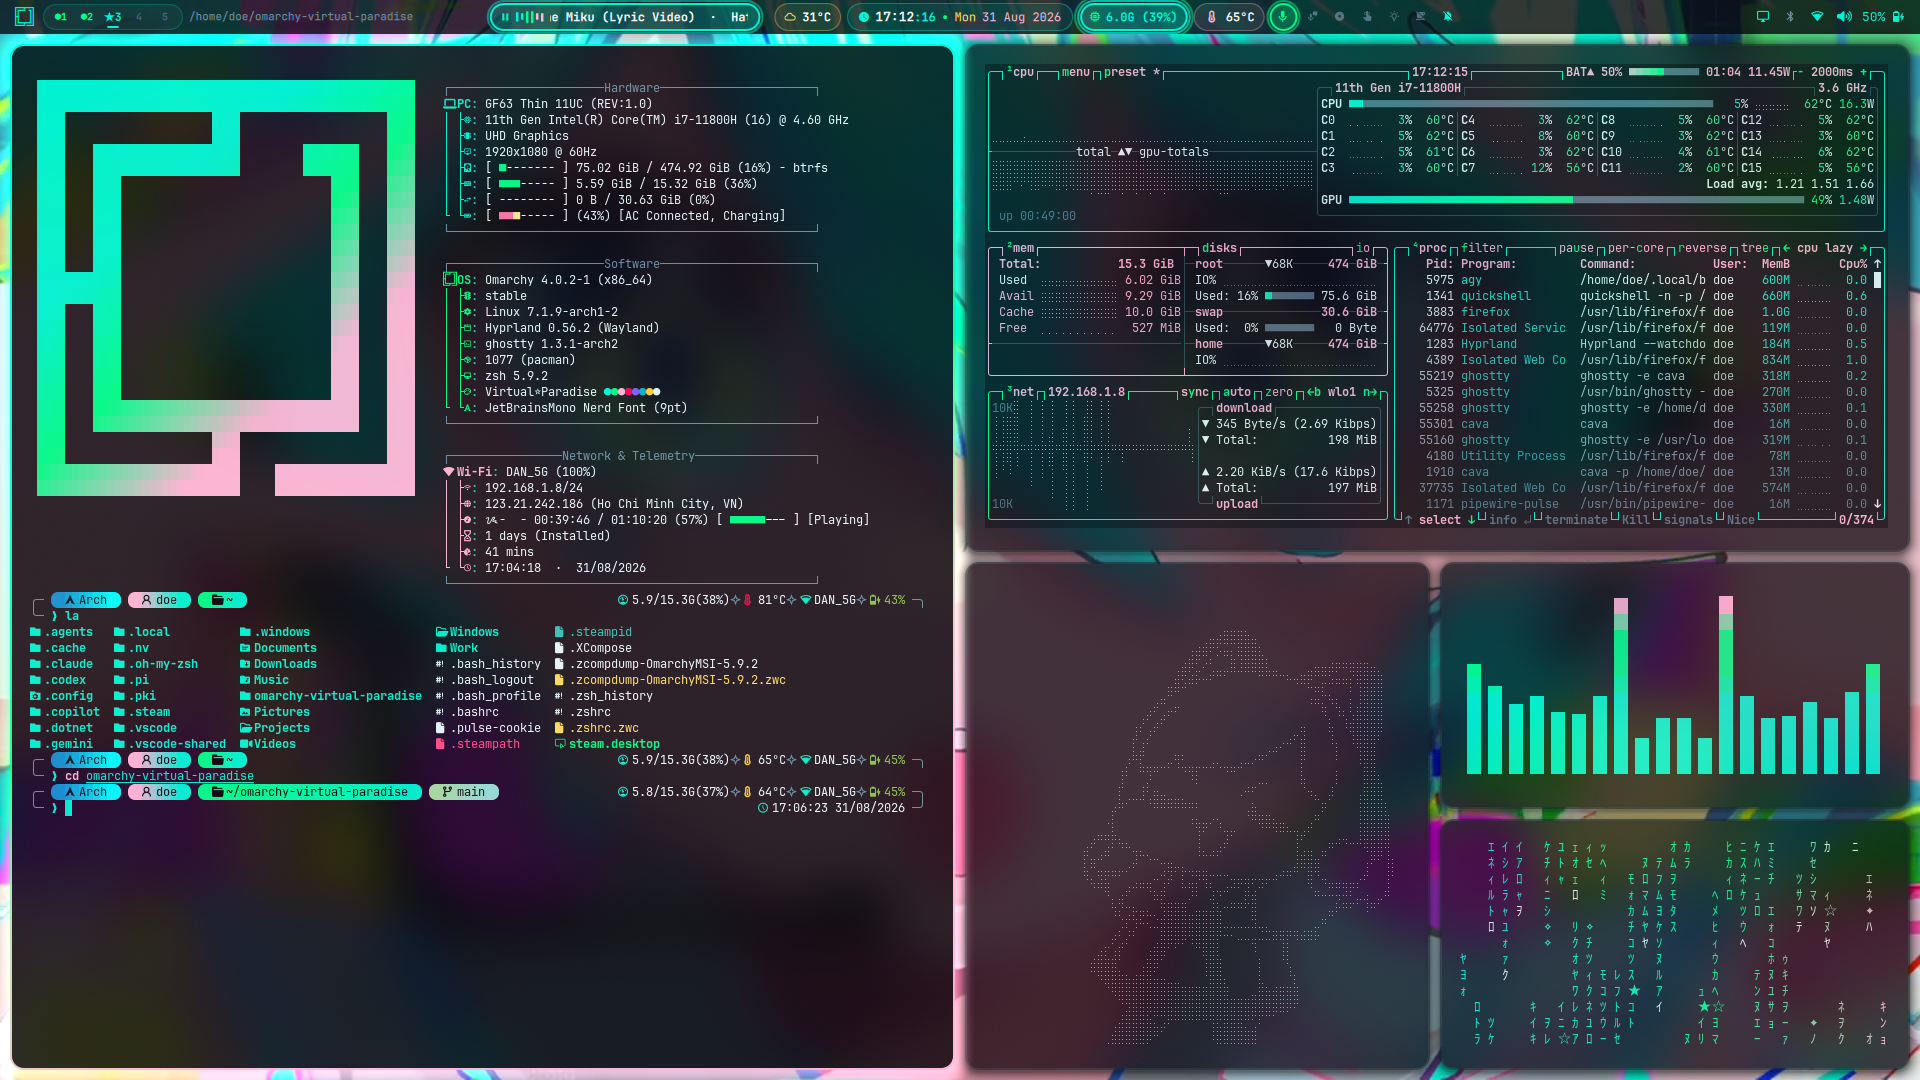
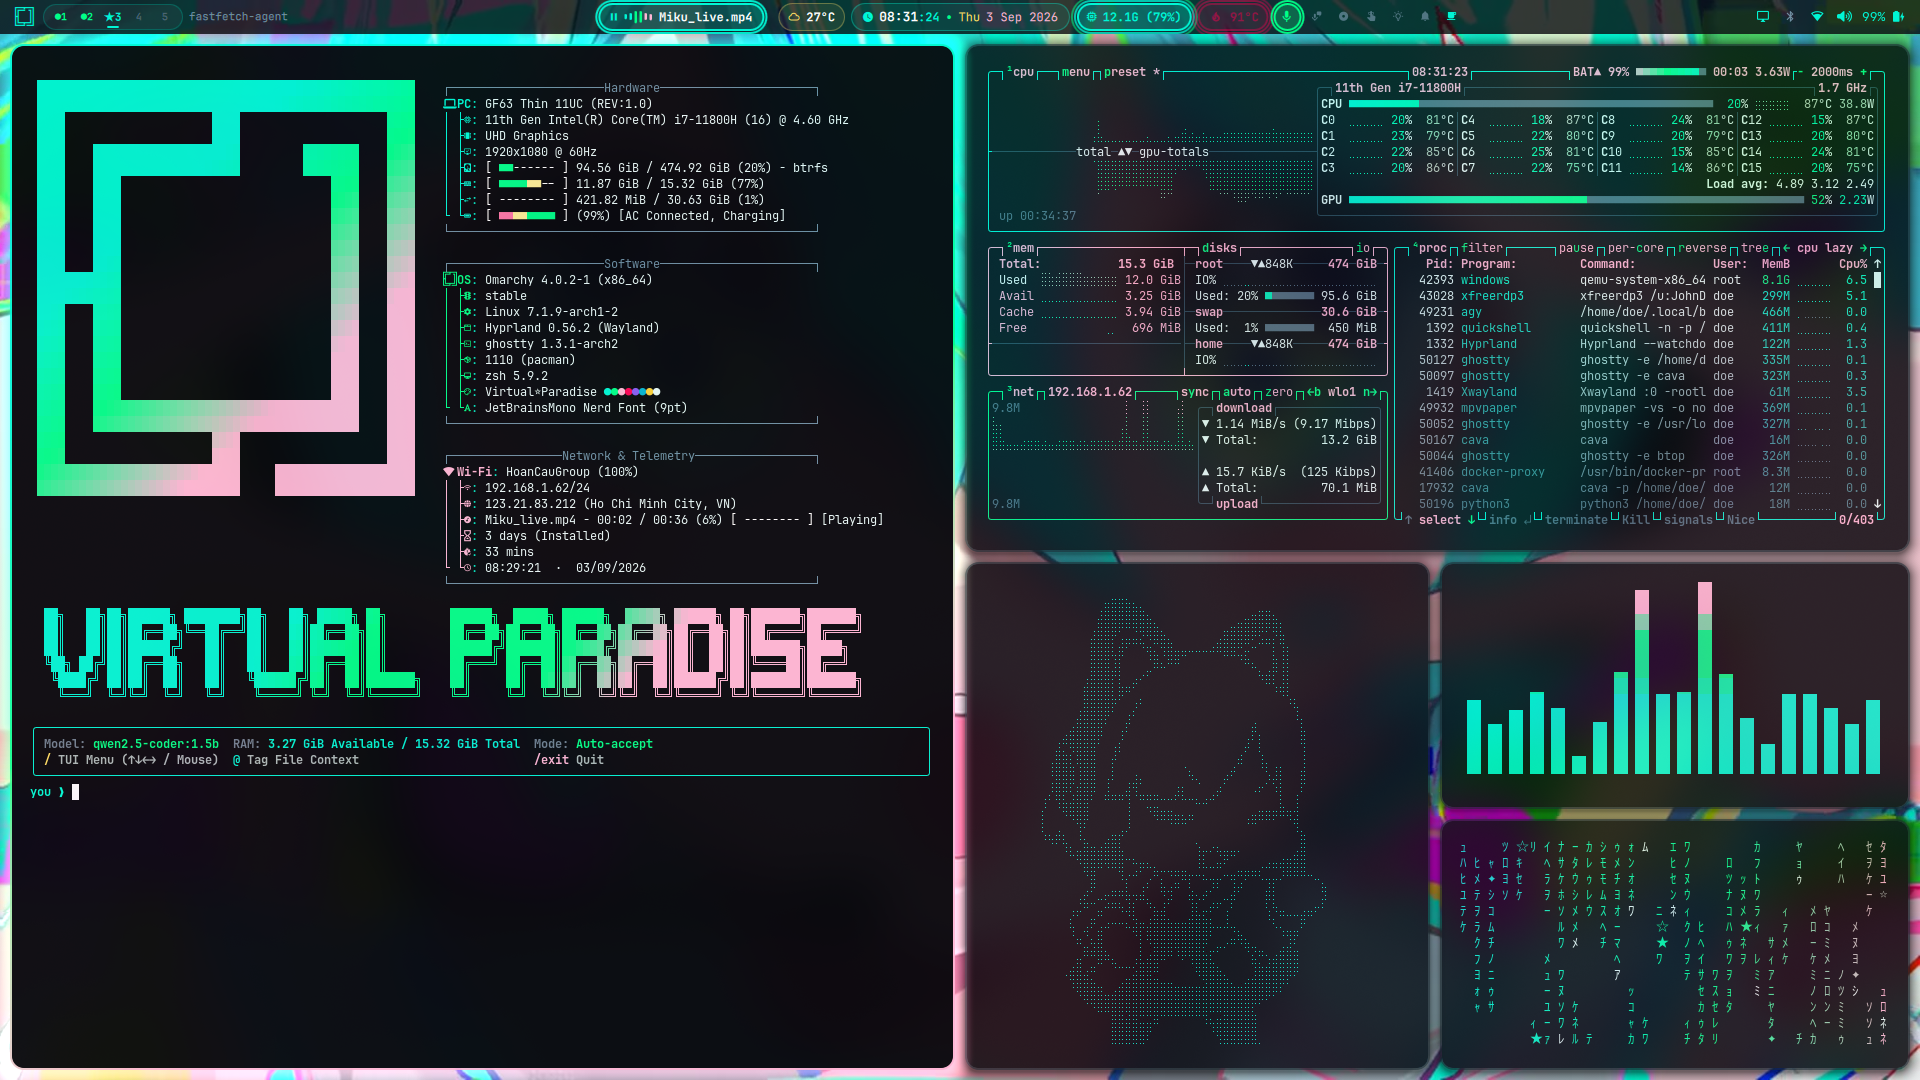
docs: update preview screenshot with latest desktop rice and Paradise Agent UI

diff --git a/README.md b/README.md
@@ -17,7 +17,8 @@
 
 ---
 
-![Virtual Paradise Desktop Preview](assets/preview.png)
+![Virtual Paradise Desktop Rice & Paradise Agent Preview](assets/preview.png)
+*5-Terminal Development Rice featuring Live Video Wallpaper, Quickshell Status Bar, System Telemetry & Paradise Agent*
 
 ---
 
